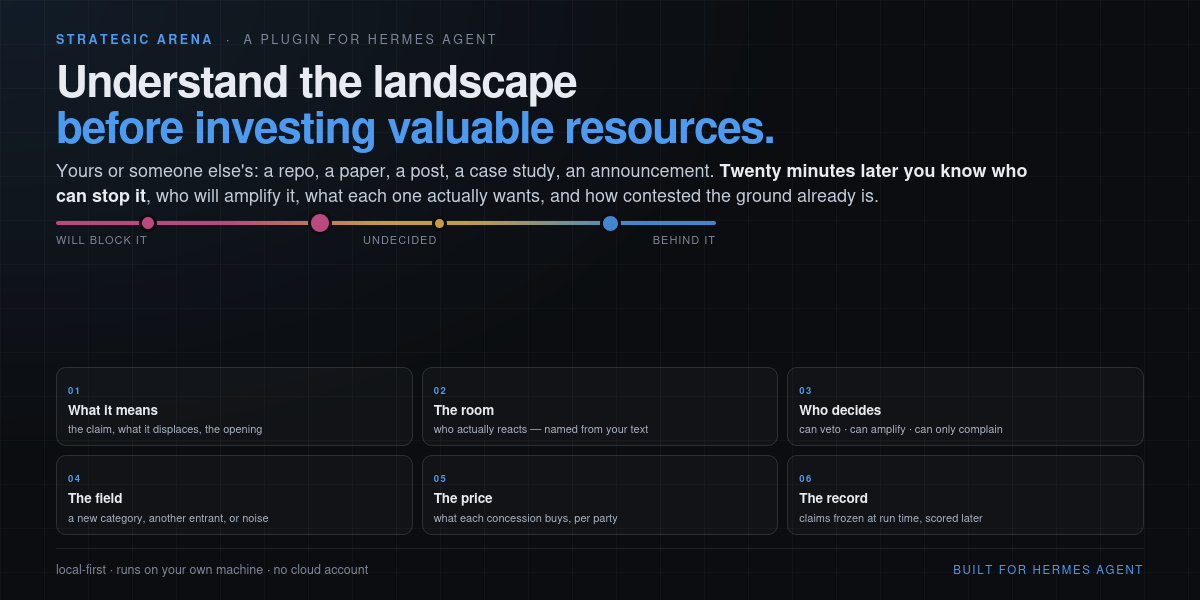
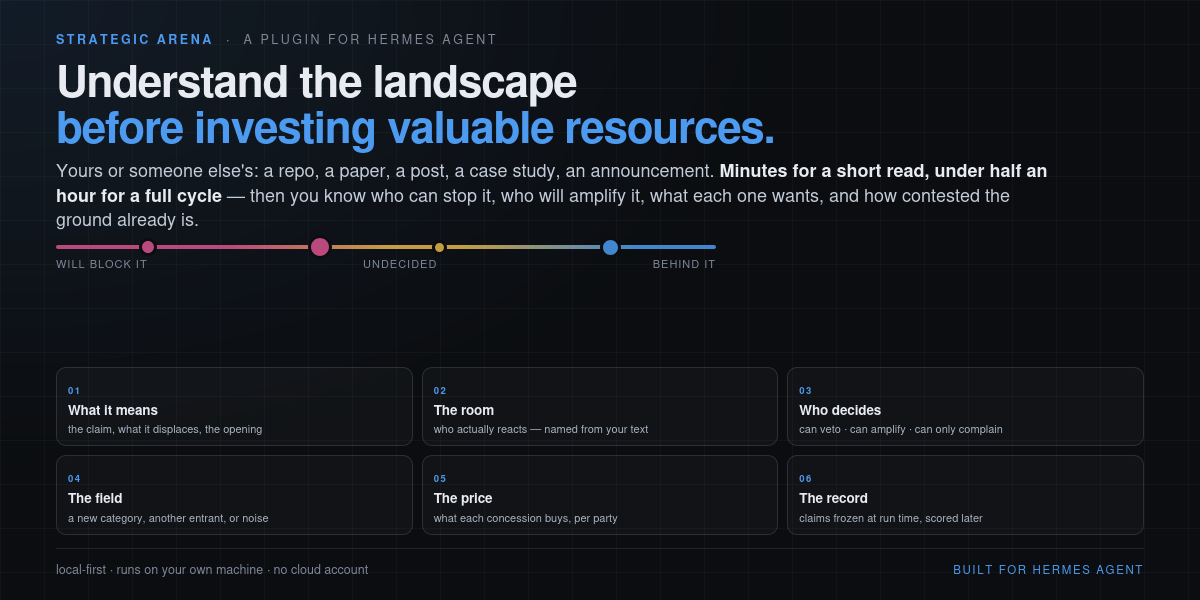
copy: the About is the About, and the times are the app's own
- The manifest description now carries the same About paragraph the README leads
  with, verbatim: what it ingests, what it maps, and the "yours or someone else's"
  line that was the whole point of the last pass.
- "twenty minutes" is gone. It was never the app's number. The form's own estimates
  are 2-5 min for a three-round read, 15-30 for the default 24h cycle and 25-45 for
  the 48h deep end, so the banner says "minutes for a short read, under half an hour
  for a full cycle" and the README prints the full timeline table next to the
  arithmetic — plus what moves it: a big paper's ingest, a rate-limited free model,
  a bigger room.
- US spelling finished where it matters: LICENSE, CREDITS.md and its headings say
  "license". (The product's own output string "unclear licence" stays — it is what
  the lens prints and what tests/test_lens.py asserts.)
- LDMA Partners keeps its name, no entity suffix: the table says "payout entity",
  which is true and matches LICENSE and CREDITS.

README is 440 lines (the ratchet). 301 tests green; validate passes.

Changed region(s): [[0.0308, 0.27, 0.8942, 0.45]]

diff --git a/assets/banner.html b/assets/banner.html
@@ -44,8 +44,8 @@
     <div class="eyebrow"><b>Strategic Arena</b> &nbsp;·&nbsp; a plugin for Hermes Agent</div>
     <h1 aria-label="Understand the landscape before investing valuable resources">Understand the landscape<br><span>before investing valuable resources.</span></h1>
     <div class="tag">Yours or someone else's: a repo, a paper, a post, a case study, an announcement.
-      <b>Twenty minutes later you know who can stop it</b>, who will amplify it, what each one actually
-      wants, and how contested the ground already is.</div>
+      <b>Minutes for a short read, under half an hour for a full cycle</b> — then you know who can stop
+      it, who will amplify it, what each one wants, and how contested the ground already is.</div>
 
     <div class="axiswrap">
       <div class="axis">

diff --git a/README.md b/README.md
@@ -26,11 +26,11 @@
 > **Not a prediction. Not a guarantee. A scored read of the room.**
 
 **In plain English.** You are about to spend real money or engineering time on something — or
-someone else just did, and you need to read it before you respond. Paste the link. In about twenty
-minutes you get the landscape it lands in: the parties who decide what happens next, the ones who
-can stop it, the ones who will amplify it, the ones who can only complain, what each of them
-actually wants, and how contested the ground already is. That is a decision you can defend, for
-about two cents on a cheap model.
+someone else just did, and you need to read it before you respond. Paste the link. Two to five
+minutes for a three-round read, under half an hour for a full cycle, and you get the landscape it
+lands in: the parties who decide what happens next, the ones who can stop it, the ones who will
+amplify it, the ones who can only complain, what each of them actually wants, and how contested the
+ground already is. That is a decision you can defend, for about two cents on a cheap model.
 
 ### See it — one link in. The room it lands in, and the price of every objection.
 
@@ -231,8 +231,7 @@ Best results come from documents that **contain a real disagreement**:
   reports low friction.
 
 Two sources that disagree beat five that agree. A decision plus one piece of real evidence is the best
-cheap run, and the plugin says "add an evidence document for grounded stances" when a run comes back
-thin — the tool teaches you what to feed it.
+cheap run — and the plugin says so out loud when a run comes back thin.
 
 ## Which model, and what a run costs
 
@@ -252,15 +251,27 @@ What the form does show is the run's arithmetic, before you commit:
 ≈80k tokens in / ≈7k tokens out, at about 6 parties
 ```
 
+| Timeline | Rounds | What the form says it takes |
+|---|---|---|
+| 30 minutes | 3 | 2–5 min |
+| 1 hour | 5 | 4–8 min |
+| 4 hours | 8 | 6–12 min |
+| 6 hours | 10 | 8–15 min |
+| 12 hours | 12 | 10–20 min |
+| 24 hours | 16 | 15–30 min — the default |
+| 48 hours | 20 | 25–45 min |
+
+Those are the app's own estimates, shown before the run. A large paper adds ingest and decode time, a
+rate-limited free model can roughly double the band, and a bigger room means more calls per round.
+
 - **Tokens always; money only when it is published.** Money appears when the public Nous catalog
   publishes a price for *that exact model* (`≈$0.016 at the published price`), and when it does not the
   form says nothing about money rather than multiplying by an invented number. A model the catalog
   does not carry is a real case, and "price unknown" is the honest answer there.
 - **After the run, the real number.** The host reports actual usage and its own cost estimate per
   call; the run prints `38 calls, 41k tokens · $0.021 spent`. That is the number to trust.
-- **The window is bounded**, so the estimate does not drift with the length of the document: a
-  document is windowed to a fixed prompt budget, head and tail, omitted middle marked
-  (`ingestion.excerpt`).
+- **The window is bounded**, so the estimate does not drift with the document's length: it is windowed
+  to a fixed prompt budget, head and tail, omitted middle marked (`ingestion.excerpt`).
 - **The timeline is suggested, not defaulted** — seven options with no recommendation is a coin flip,
   so the form reads the input and marks one *suggested*, with the reason in one sentence.
 - **The long end is honest.** Positions stop moving after about 8–10 rounds; past that the extra rounds

diff --git a/CREDITS.md b/CREDITS.md
@@ -1,4 +1,4 @@
-# Credits, sources and licences
+# Credits, sources and licenses
 
 Strategic Arena (repository id `upfront`) is **MIT-licensed** and is a
 **clean-room implementation**: no source code, data file or asset from any project
@@ -6,7 +6,7 @@ listed below is vendored in this repository. What we take from each is the *idea
 and ideas are cited here rather than copied into the tree.
 
 If you believe something here is used without credit, open an issue. The fix is a
-citation — and if code is ever involved, a licence change, not an excuse.
+citation — and if code is ever involved, a license change, not an excuse.
 
 ---
 
@@ -62,10 +62,10 @@ host environment. The desktop half imports only `@hermes/plugin-sdk`, `react` an
 - No third-party icon set, font file or bitmap is bundled. Icons come from the
   app's own `Codicon` component; typography is the app's own font stack.
 
-## Licence
+## License
 
 MIT. Copyright (c) 2026 **Lisa Martin (LeMultiFox)**, who holds the copyright and
-grants the licence. TrillionVerse Labs is the studio name this work is made under.
+grants the license. TrillionVerse Labs is the studio name this work is made under.
 **LDMA Partners** is the entity that receives prize payouts and commercial payments
 where applicable — it is not the copyright holder, and nothing here assigns the
 work to it. A question about the code goes to LeMultiFox.
